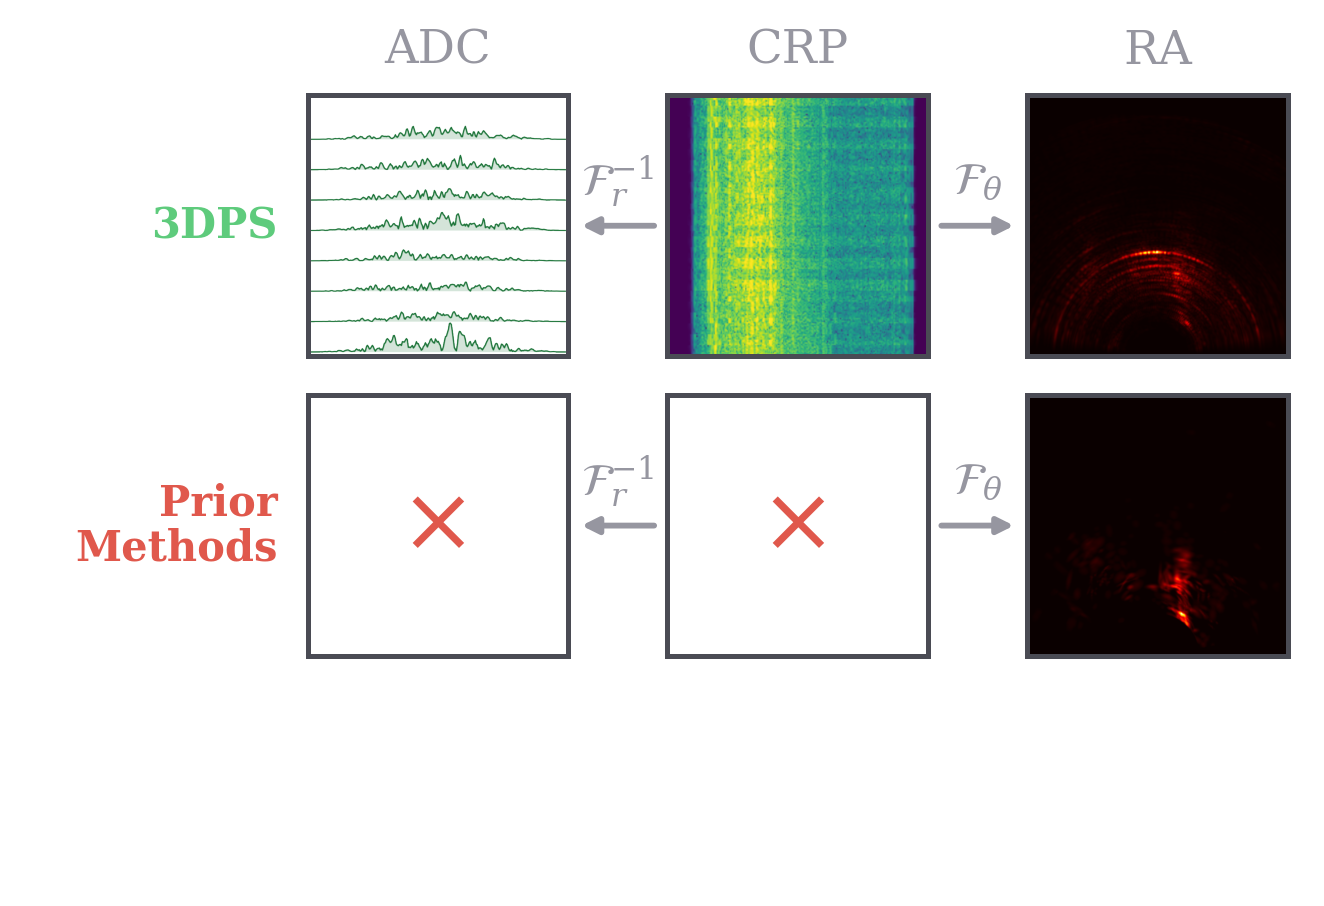
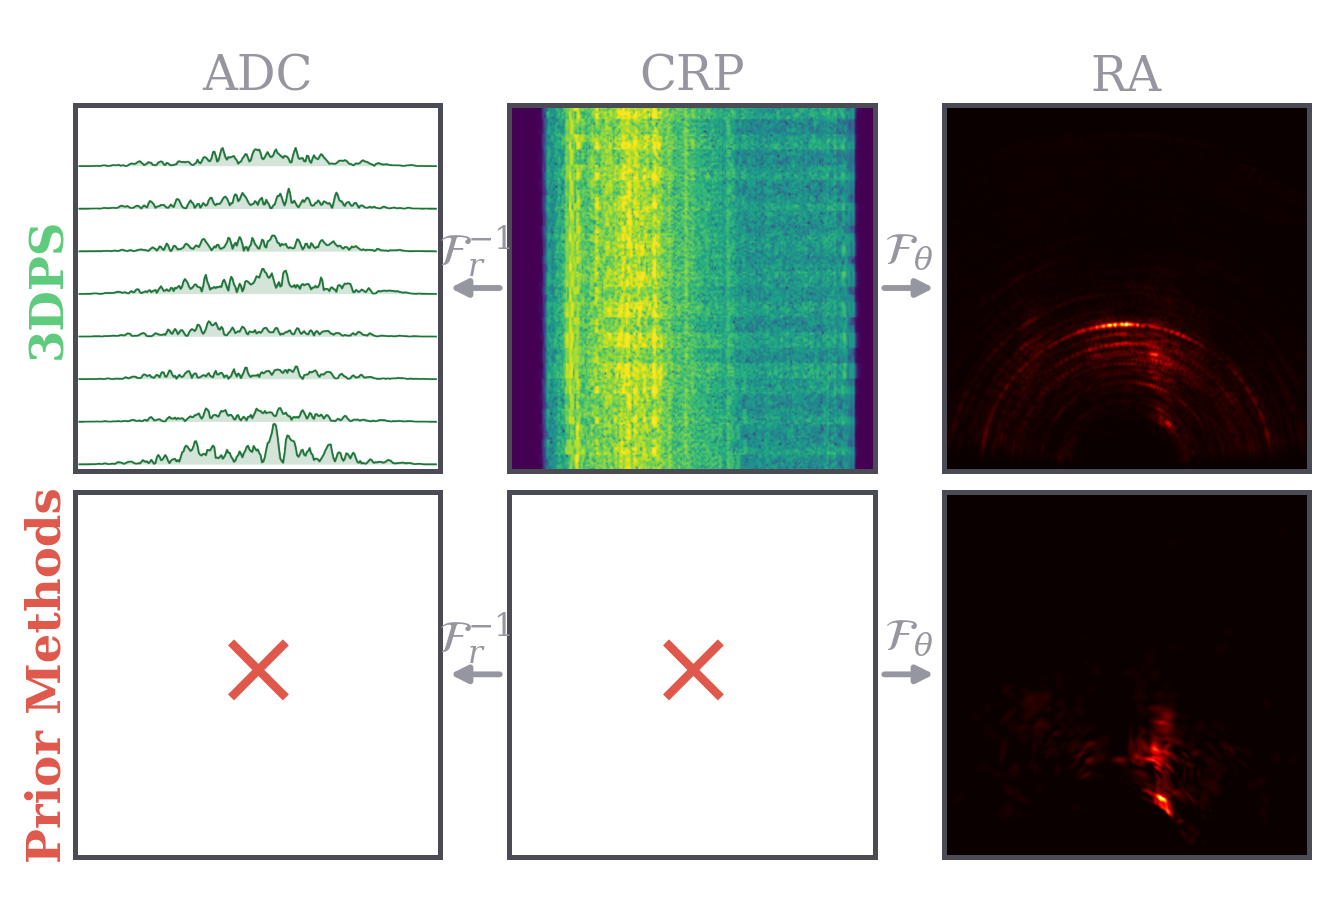
applications: bigger rendering cells, upright row labels, full-width on mobile
Two things were eating the product-agnostic panel:

  - The row labels ran HORIZONTALLY, so "Prior Methods" claimed 0.45in
    of a 2.21in panel. Rotated upright they cost their text height
    instead: the label column goes 0.45 -> 0.10in.
  - After the title moved to HTML the block still hung from the top,
    leaving ~0.42in dead at the bottom.

The grid is now sized by whichever axis binds and centred in both, with
margins cut to the minimum that keeps the arrows clear (MG .06 -> .025,
arrow gap .165 -> .115, row gap .065 -> .035).

  cells 0.435 -> 0.609 in   (+40% linear, +96% area)

Two assertions guard the new labels: each must clear the margin, and
must be no taller than its own row.

MOBILE was the real complaint, and it was a layout fault, not a panel
one: act 2 put the 2x2 in the left HALF of a 390px stage, so each tile
was ~93px and a six-cell diagram could not survive it. Under 760px the
grid now takes the full width and the stage squares up for the height;
the plot steps aside there, having had its own act, rather than halving
the applications.

diff --git a/index.html b/index.html
@@ -322,6 +322,17 @@
       #teaser-anim .t-stitle { top: 4%; padding: .04em .36em;
                                font-size: clamp(.34rem, 1.45vw, .52rem); }
       #teaser-anim .t-head { font-size: clamp(.6rem, 2.1vw, .9rem); }
+      /* Act 2 on a phone: the 2x2 was sharing a 390px stage with the plot
+         card, so each tile was ~93px and the six-cell rendering diagram
+         was illegible. The grid takes the FULL width here and the stage
+         squares up for the height; the plot had its own act and steps
+         aside rather than halving the applications. */
+      #teaser-anim.apps .t-stage { aspect-ratio: 1 / 1; }
+      #teaser-anim.apps .t-pareto { opacity: 0; pointer-events: none; }
+      #teaser-anim .t-apps { right: var(--t-pad); }
+      #teaser-anim .t-app { padding: 0.3rem 0.32rem 0.34rem; }
+      #teaser-anim .t-app figcaption { margin: 0 0 0.22rem;
+                                       font-size: clamp(.5rem, 2.3vw, .8rem); }
     }
 
     /* theme toggle */
@@ -435,17 +446,17 @@
         <div class="t-apps" id="t-apps">
         <p class="t-apps-head">Applications</p>
         <figure class="t-app"><figcaption>Product-Agnostic Rendering</figcaption><img class="themed"
-          data-light="./static/teaser/light/app_rendering.png?v=4" data-dark="./static/teaser/dark/app_rendering.png?v=4"
-          src="./static/teaser/light/app_rendering.png?v=4" alt="Product-agnostic rendering: ADC, CRP and RA from one fitted scene."></figure>
+          data-light="./static/teaser/light/app_rendering.png?v=5" data-dark="./static/teaser/dark/app_rendering.png?v=5"
+          src="./static/teaser/light/app_rendering.png?v=5" alt="Product-agnostic rendering: ADC, CRP and RA from one fitted scene."></figure>
         <figure class="t-app"><figcaption>Material Reconstruction</figcaption><img class="themed"
-          data-light="./static/teaser/light/app_material.png?v=4" data-dark="./static/teaser/dark/app_material.png?v=4"
-          src="./static/teaser/light/app_material.png?v=4" alt="Material reconstruction: per-point relative permittivity."></figure>
+          data-light="./static/teaser/light/app_material.png?v=5" data-dark="./static/teaser/dark/app_material.png?v=5"
+          src="./static/teaser/light/app_material.png?v=5" alt="Material reconstruction: per-point relative permittivity."></figure>
         <figure class="t-app"><figcaption>Normal Estimation</figcaption><img class="themed"
-          data-light="./static/teaser/light/app_normals.png?v=4" data-dark="./static/teaser/dark/app_normals.png?v=4"
-          src="./static/teaser/light/app_normals.png?v=4" alt="Normal estimation: per-point surface normals."></figure>
+          data-light="./static/teaser/light/app_normals.png?v=5" data-dark="./static/teaser/dark/app_normals.png?v=5"
+          src="./static/teaser/light/app_normals.png?v=5" alt="Normal estimation: per-point surface normals."></figure>
         <figure class="t-app"><figcaption>Novel View Synthesis</figcaption><img class="themed"
-          data-light="./static/teaser/light/app_nvs.png?v=4" data-dark="./static/teaser/dark/app_nvs.png?v=4"
-          src="./static/teaser/light/app_nvs.png?v=4" alt="Novel view synthesis on held-out frames."></figure>
+          data-light="./static/teaser/light/app_nvs.png?v=5" data-dark="./static/teaser/dark/app_nvs.png?v=5"
+          src="./static/teaser/light/app_nvs.png?v=5" alt="Novel view synthesis on held-out frames."></figure>
         </div>
       </div>
       <div class="t-still"><img class="themed"
@@ -815,7 +826,7 @@
 </script>
 
 <script type="module" src="./static/js/viewer.js?v=10"></script>
-<script type="module" src="./static/js/teaser.js?v=20"></script>
+<script type="module" src="./static/js/teaser.js?v=21"></script>
 
 </body>
 </html>

diff --git a/tools/gen_teaser_apps.py b/tools/gen_teaser_apps.py
@@ -127,23 +127,24 @@ def rendering():
     fig = plt.figure(figsize=(W, H), dpi=DPI)
     fig.patch.set_facecolor("none")
 
-    # The label column is sized from the MEASURED width of "Methods" --
-    # guessing it cost two rounds of clipping. Everything left over, minus
-    # the two arrow gaps, goes to the three cells.
-    MG, AW, GAP, ROW_PT = 0.06, 0.165, 0.065, 5.0
-    probe = plt.figure(figsize=(2, 1), dpi=DPI)
-    pt = probe.text(0.1, 0.5, "Methods", fontsize=ROW_PT, fontweight="bold")
-    probe.canvas.draw()
-    LAB_W = pt.get_window_extent(probe.canvas.get_renderer()).width / DPI
-    plt.close(probe)
-    LW = LAB_W + 0.055 + MG
-    cw = (W - 2 * MG - LW - 2 * AW) / 3.0
-    ch = cw                                   # the sources are square
-    hdr_y = H - 0.085
-    top = hdr_y - 0.075
-    y1 = top - ch                             # row 1 (3DPS)
-    y0 = y1 - GAP - ch                        # row 2 (prior methods)
-    xs = [MG + LW + k * (cw + AW) for k in range(3)]
+    # Two things were wasting the panel. The row labels ran HORIZONTALLY,
+    # so "Prior Methods" claimed 0.45in of a 2.21in panel; rotated upright
+    # they cost their text height instead. And after the title moved to
+    # HTML the block still hung from the top, leaving ~0.42in dead at the
+    # bottom. The grid is now sized by whichever axis binds and centred in
+    # both, with the margins cut to the minimum that keeps the arrows clear.
+    MG, AW, GAP, ROW_PT, HDR = 0.025, 0.115, 0.035, 5.6, 0.095
+    LW = 0.10                                  # upright label: its height
+    c = min((W - 2 * MG - LW - 2 * AW) / 3.0,
+            (H - 2 * MG - HDR - GAP) / 2.0)    # square cells
+    gw, gh = LW + 3 * c + 2 * AW, HDR + 2 * c + GAP
+    x0 = (W - gw) / 2 + LW                     # first cell's left edge
+    top = (H + gh) / 2
+    hdr_y = top - HDR / 2
+    y1 = top - HDR - c                         # row 1 (3DPS)
+    y0 = y1 - GAP - c                          # row 2 (prior methods)
+    xs = [x0 + k * (c + AW) for k in range(3)]
+    cw = ch = c
 
     def ax_at(x, y, img=None):
         a = fig.add_axes([x / W, y / H, cw / W, ch / H], zorder=2)
@@ -152,55 +153,54 @@ def rendering():
             sp.set_visible(True); sp.set_color(RULE); sp.set_linewidth(0.6)
         a.set_xticks([]); a.set_yticks([])
         if img is not None:
-            a.imshow(plt.imread(os.path.join(PANELS, img)))
-            a.set_xlim(0, plt.imread(os.path.join(PANELS, img)).shape[1])
-            a.set_ylim(plt.imread(os.path.join(PANELS, img)).shape[0], 0)
+            im = plt.imread(os.path.join(PANELS, img))
+            a.imshow(im)
+            a.set_xlim(0, im.shape[1]); a.set_ylim(im.shape[0], 0)
         return a
 
     for k, t in enumerate(("ADC", "CRP", "RA")):
         fig.text((xs[k] + cw / 2) / W, hdr_y / H, t, ha="center", va="center",
-                 fontsize=5.6, color=SUB, zorder=3)
+                 fontsize=5.8, color=SUB, zorder=3)
     ax_at(xs[0], y1, "panel_adc_ours_train.png")
     ax_at(xs[1], y1, "panel_crp_ours.png")
     ax_at(xs[2], y1, "panel_ra_ours_train.png")
     ax_at(xs[2], y0, "panel_ra_radarsplat_train.png")
-    for k in (0, 1):                          # prior methods reach neither
+    for k in (0, 1):                           # prior methods reach neither
         a = ax_at(xs[k], y0)
         a.set_xlim(0, 1); a.set_ylim(0, 1)
-        # DejaVu Serif has no U+2715; U+00D7 is in the font and matches
-        # the cross the paper teaser uses
-        a.text(0.5, 0.5, "\u00d7", ha="center", va="center", fontsize=11,
+        # DejaVu Serif has no U+2715; U+00D7 is in the font
+        a.text(0.5, 0.5, "\u00d7", ha="center", va="center", fontsize=13,
                color=PRIOR_C, transform=a.transAxes)
-    lx = MG + LW - 0.05
-    fig.text(lx / W, (y1 + ch / 2) / H, "3DPS", ha="right", va="center",
-             fontsize=ROW_PT, fontweight="bold", color=OURS_C, zorder=3)
-    t = fig.text(lx / W, (y0 + ch / 2) / H, "Prior\nMethods", ha="right",
-                 va="center", fontsize=ROW_PT, fontweight="bold",
-                 color=PRIOR_C, zorder=3, linespacing=1.1)
-    fig.canvas.draw()
-    bb = t.get_window_extent(fig.canvas.get_renderer())
-    assert bb.x0 / DPI > MG * 0.5, (
-        f"row label clips: starts at {bb.x0 / DPI:.3f} in, margin {MG}")
+    lx = x0 - 0.045
+    for y, txt_, col in ((y1, "3DPS", OURS_C), (y0, "Prior Methods", PRIOR_C)):
+        t = fig.text(lx / W, (y + ch / 2) / H, txt_, ha="center", va="center",
+                     rotation=90, rotation_mode="anchor", fontsize=ROW_PT,
+                     fontweight="bold", color=col, zorder=3)
+        fig.canvas.draw()
+        bb = t.get_window_extent(fig.canvas.get_renderer())
+        assert bb.x0 / DPI > MG * 0.4, (
+            f"{txt_} clips: starts at {bb.x0 / DPI:.3f} in, margin {MG}")
+        assert bb.height / DPI < ch + 0.02, (
+            f"{txt_} is taller than its row: {bb.height / DPI:.3f} vs {ch:.3f}")
 
-    def arrow(x0, x1, y, lab, rev):
+    def arrow(ax0, ax1, y, lab, rev):
         fig.patches.append(plt.matplotlib.patches.FancyArrowPatch(
-            ((x1 if rev else x0) / W, y / H), ((x0 if rev else x1) / W, y / H),
-            transform=fig.transFigure, arrowstyle="-|>", mutation_scale=4.0,
+            ((ax1 if rev else ax0) / W, y / H), ((ax0 if rev else ax1) / W, y / H),
+            transform=fig.transFigure, arrowstyle="-|>", mutation_scale=4.2,
             lw=0.7, color=SUB, shrinkA=0, shrinkB=0, zorder=3))
-        fig.text((x0 + x1) / 2 / W, (y + 0.075) / H, lab, ha="center",
+        fig.text((ax0 + ax1) / 2 / W, (y + 0.062) / H, lab, ha="center",
                  va="center", fontsize=5.4, color=SUB, zorder=3)
     for y in (y1, y0):
-        arrow(xs[0] + cw + 0.022, xs[1] - 0.022, y + ch / 2,
+        arrow(xs[0] + cw + 0.016, xs[1] - 0.016, y + ch / 2,
               r"$\mathcal{F}_r^{-1}$", True)
-        arrow(xs[1] + cw + 0.022, xs[2] - 0.022, y + ch / 2,
+        arrow(xs[1] + cw + 0.016, xs[2] - 0.016, y + ch / 2,
               r"$\mathcal{F}_\theta$", False)
     out = os.path.join(OUT, "app_rendering.png")
     fig.savefig(out, dpi=DPI, facecolor="none", edgecolor="none")
     plt.close(fig)
     from PIL import Image
     print(f"  app_rendering.png    {Image.open(out).size[0]} x "
-          f"{Image.open(out).size[1]} px   cells {cw:.3f} in "
-          f"(was ~0.33)")
+          f"{Image.open(out).size[1]} px   cells {cw:.3f} in")
 
 
 rendering()
